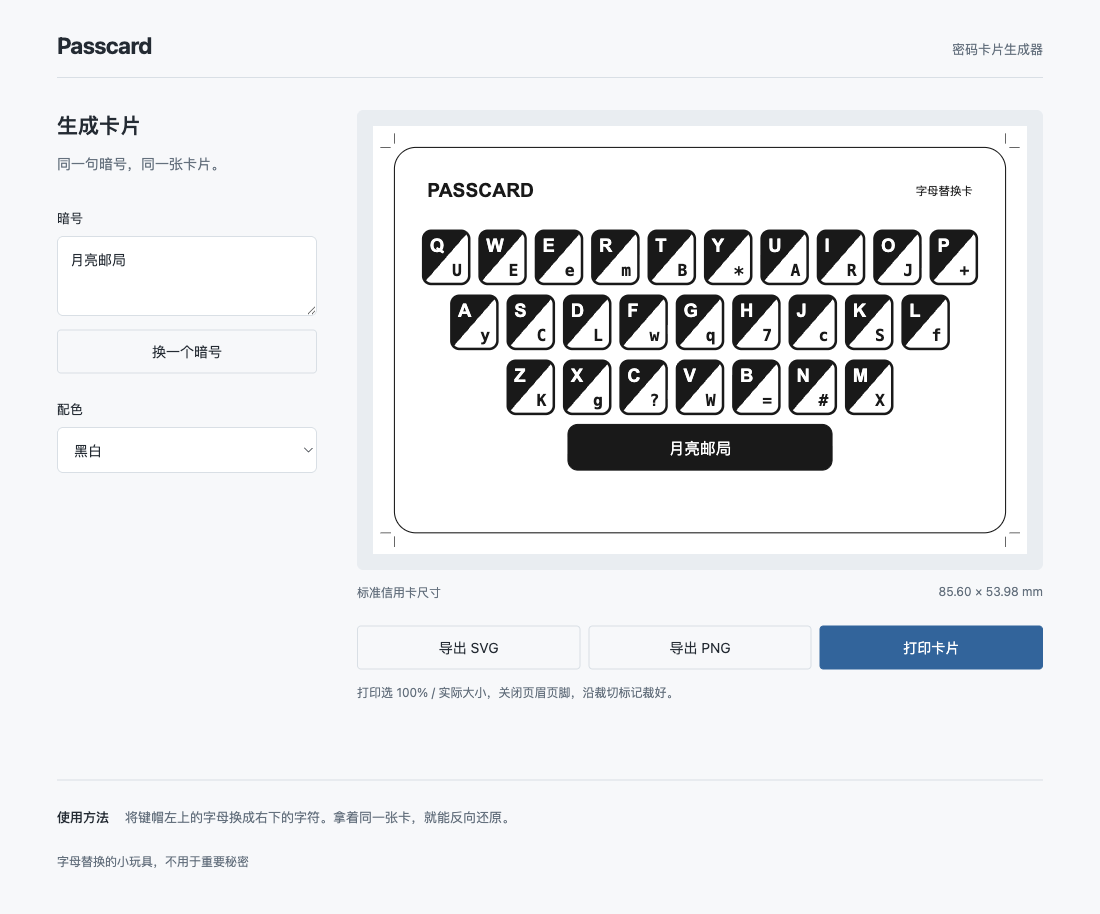
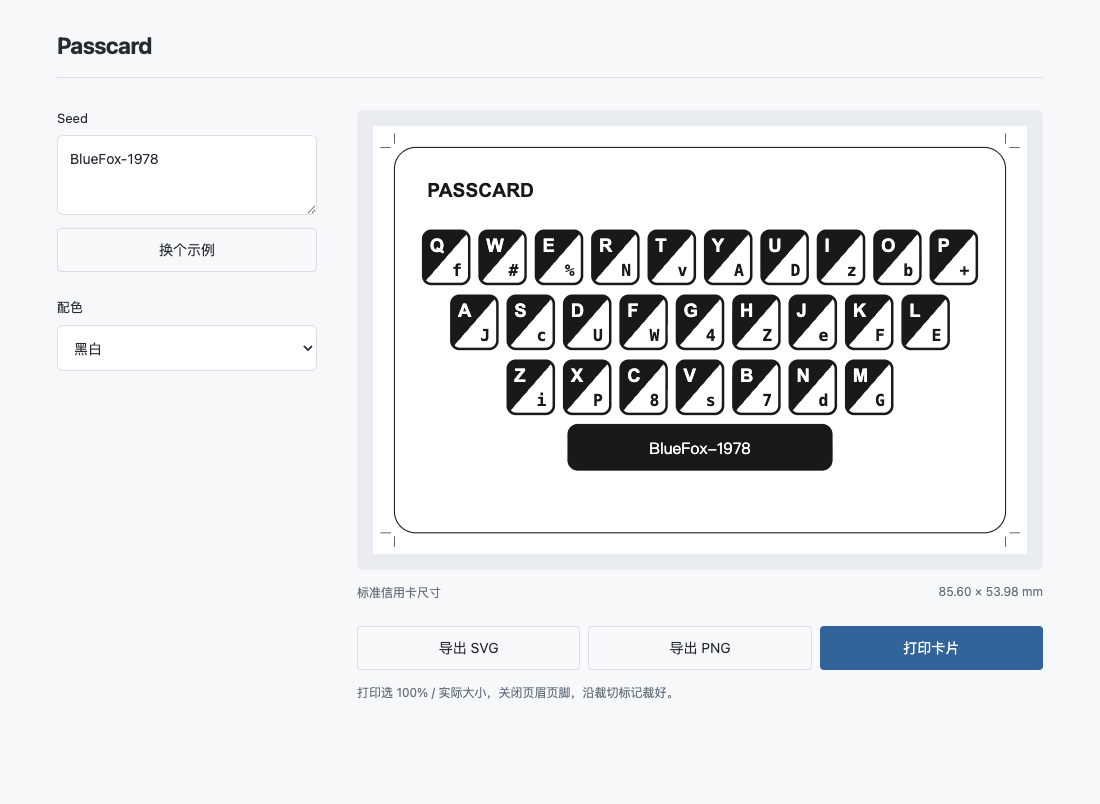
Simplify Passcard labels and restore seed examples

diff --git a/passcard.html b/passcard.html
@@ -4,18 +4,15 @@
 <meta charset="utf-8">
 <meta name="viewport" content="width=device-width, initial-scale=1">
 <meta http-equiv="Content-Security-Policy" content="default-src 'none'; script-src 'unsafe-inline'; style-src 'unsafe-inline'; img-src blob: data:; connect-src 'none'; base-uri 'none'; form-action 'none'">
-<title>Passcard · 密码卡片</title>
+<title>Passcard</title>
 <style>
 :root { color-scheme: light; --paper:#f7f8fa; --ink:#242b33; --muted:#64707d; --line:#d9dfe5; --accent:#32649b; }
 * { box-sizing:border-box; }
 body { margin:0; background:var(--paper); color:var(--ink); font-family:-apple-system,BlinkMacSystemFont,"Segoe UI","PingFang SC","Microsoft YaHei",sans-serif; }
 main { max-width:1050px; margin:auto; padding:32px 32px 24px; }
 header { display:flex; align-items:baseline; justify-content:space-between; border-bottom:1px solid var(--line); padding-bottom:18px; }
-.brand { font-size:23px; font-weight:700; letter-spacing:-.5px; }
-.edition { font-size:13px; color:var(--muted); }
+.brand { margin:0; font-size:23px; font-weight:700; letter-spacing:-.5px; }
 .workspace { display:grid; grid-template-columns:260px minmax(0,1fr); gap:40px; align-items:start; padding:32px 0 24px; }
-h1 { font-size:21px; font-weight:600; margin:0 0 12px; }
-.lead { font-size:14px; color:var(--muted); margin:0 0 32px; line-height:1.8; }
 label { display:block; font-size:13px; margin-bottom:9px; }
 textarea,select,button { font:inherit; font-size:14px; color:inherit; }
 textarea,select { width:100%; border:1px solid var(--line); border-radius:6px; background:#fff; padding:12px; }
@@ -29,7 +26,7 @@ button:disabled { opacity:.4; cursor:not-allowed; }
 .preview { min-width:0; }
 .card-stage { padding:16px; background:#e9edf1; border-radius:6px; }
 #walletCard { aspect-ratio:916 / 599.8; display:grid; place-items:center; }
-#walletCard:empty::after { content:"输入暗号后生成卡片"; color:var(--muted); font-size:14px; }
+#walletCard:empty::after { content:"请输入 Seed"; color:var(--muted); font-size:14px; }
 #walletCard svg { display:block; width:100%; height:auto; }
 .caption { display:flex; justify-content:space-between; gap:12px; margin:14px 0 25px; font-size:12px; color:var(--muted); }
 .actions { display:flex; gap:8px; }
@@ -39,13 +36,10 @@ button:disabled { opacity:.4; cursor:not-allowed; }
 .note { color:var(--muted); font-size:12px; line-height:1.8; margin:12px 0 0; }
 #status { min-height:36px; font-size:13px; line-height:1.6; margin:16px 0 0; overflow-wrap:anywhere; }
 #status[data-error="true"] { color:#a13f2d; }
-.how { border-top:1px solid var(--line); padding:24px 0; font-size:13px; line-height:1.9; color:var(--muted); }
-.how strong { color:var(--ink); font-weight:500; margin-right:16px; }
-footer { font-size:12px; color:var(--muted); padding-bottom:20px; }
 #printBlocked { display:none; }
 @media (max-width:720px) {
  main { padding:24px 20px 12px; } .workspace { grid-template-columns:1fr; gap:24px; padding:32px 0 24px; }
- .lead { margin-bottom:22px; } .card-stage { padding:7px; } .edition { letter-spacing:0; }
+ .card-stage { padding:7px; }
  textarea,select { font-size:16px; } #shuffleBtn { margin-bottom:20px; } .caption { font-size:11px; }
  .actions button { padding:10px 8px; font-size:13px; white-space:nowrap; }
 }
@@ -53,7 +47,7 @@ footer { font-size:12px; color:var(--muted); padding-bottom:20px; }
 @media print {
  html,body { margin:0; padding:0; background:white; min-height:0; }
  main,.workspace,.preview,.card-stage,#walletCard { display:block; width:91.60mm; height:59.98mm; margin:0; padding:0; border:0; border-radius:0; background:none; }
- header,.controls,.caption,.actions,.note,#status,.how,footer { display:none; }
+ header,.controls,.caption,.actions,.note,#status { display:none; }
  #walletCard svg { width:91.60mm!important; height:59.98mm!important; max-width:none; filter:none; }
  .card-stage { break-inside:avoid; }
  * { print-color-adjust:exact; -webkit-print-color-adjust:exact; }
@@ -64,14 +58,12 @@ footer { font-size:12px; color:var(--muted); padding-bottom:20px; }
 </head>
 <body>
 <main>
- <header><span class="brand">Passcard</span><span class="edition">密码卡片生成器</span></header>
+ <header><h1 class="brand">Passcard</h1></header>
  <section class="workspace">
   <div class="controls">
-   <h1>生成卡片</h1>
-   <p class="lead">同一句暗号，同一张卡片。</p>
-   <label for="seedInput">暗号</label>
-   <textarea id="seedInput" rows="2" autocomplete="off" spellcheck="false" aria-describedby="status">月亮邮局</textarea>
-   <button id="shuffleBtn" type="button">换一个暗号</button>
+    <label for="seedInput">Seed</label>
+    <textarea id="seedInput" rows="2" autocomplete="off" autocapitalize="off" spellcheck="false" aria-describedby="status">BlueFox-1978</textarea>
+    <button id="shuffleBtn" type="button">换个示例</button>
    <label for="styleSelect">配色</label>
    <select id="styleSelect"><option value="warm">暖白</option><option value="ink">蓝灰</option><option value="night">深色</option><option value="bw" selected>黑白</option></select>
   </div>
@@ -83,10 +75,8 @@ footer { font-size:12px; color:var(--muted); padding-bottom:20px; }
    <p id="status" role="status" aria-live="polite"></p>
   </div>
  </section>
-  <div class="how"><strong>使用方法</strong>将键帽左上的字母换成右下的字符。拿着同一张卡，就能反向还原。</div>
- <footer>字母替换的小玩具，不用于重要秘密</footer>
 </main>
-<p id="printBlocked">请输入有效暗号，再打印卡片。</p>
+<p id="printBlocked">请输入有效 Seed，再打印卡片。</p>
  <noscript>请在浏览器中启用 JavaScript，才能生成卡片。</noscript>
 <script>
 "use strict";
@@ -100,10 +90,10 @@ const THEMES = {
  bw:["#ffffff","#191919","#ffffff","#191919","#ffffff"]
 };
 function validateSeed(value) {
- if (typeof value !== "string" || !value.trim()) throw new Error("写一句暗号吧，空白还不能生成卡片。");
- if (/[\p{Cc}\p{Cf}\p{Cs}\p{Co}\p{Cn}\p{M}\p{Default_Ignorable_Code_Point}\u2028\u2029\u2800]/u.test(value)) throw new Error("暗号里有隐藏字符或组合字符，请换成普通文字、数字或标点。");
+ if (typeof value !== "string" || !value.trim()) throw new Error("请输入 Seed。");
+ if (/[\p{Cc}\p{Cf}\p{Cs}\p{Co}\p{Cn}\p{M}\p{Default_Ignorable_Code_Point}\u2028\u2029\u2800]/u.test(value)) throw new Error("Seed 含不支持的字符。");
  const seed = value.trim();
- if ([...seed].length > 32) throw new Error("暗号最多 32 个字符，才能完整放进空格键；请缩短后再试，输入没有被截断。");
+ if ([...seed].length > 32) throw new Error("Seed 最多 32 个字符。");
  return seed;
 }
 function cyrb128(str) {
@@ -154,11 +144,10 @@ function cardSvg(value,style) {
   crop+=`<path d="M${x},${y+dy*5}v${dy*15} M${x+dx*5},${y}h${dx*15}"/>`;
  }
  return `<svg xmlns="http://www.w3.org/2000/svg" width="91.60mm" height="59.98mm" viewBox="0 0 916 599.8" role="img" aria-labelledby="card-title">
-  <title id="card-title">字母替换卡 · ${esc(seed)}</title>
+  <title id="card-title">Passcard · ${esc(seed)}</title>
   <rect width="916" height="599.8" fill="${paper}"/>
   <rect x="30" y="30" width="856" height="539.8" rx="30" fill="none" stroke="${ink}" stroke-width="1.5"/>
-   <g fill="${ink}"><text x="76" y="99" font-family="Arial, sans-serif" font-size="27" font-weight="700">PASSCARD</text>
-   <text x="840" y="97" text-anchor="end" font-family="PingFang SC, Microsoft YaHei, sans-serif" font-size="16">字母替换卡</text></g>
+   <text x="76" y="99" fill="${ink}" font-family="Arial, sans-serif" font-size="27" font-weight="700">PASSCARD</text>
   ${keys}
   <rect x="273" y="418" width="370" height="64" rx="14" fill="${space}" stroke="${ink}" stroke-width="1.5"/>
   <g fill="${spaceInk}" font-family="PingFang SC, Microsoft YaHei, sans-serif">${caption}</g>
@@ -233,7 +222,7 @@ async function exportCard(format) {
  const snapshot=rendered;exporting=true;updateButtons();message(`正在准备 ${format.toUpperCase()}…`);
  try {
   const blob=format==="png"?await pngBlob(snapshot.svg):new Blob([snapshot.svg],{type:"image/svg+xml;charset=utf-8"});
-  if(snapshot!==rendered||!ready()) throw new Error("暗号或配色已变化，请重新导出当前卡片。");
+  if(snapshot!==rendered||!ready()) throw new Error("Seed 或配色已变化，请重新导出。");
   const url=URL.createObjectURL(blob),link=document.createElement("a");
   try { link.href=url;link.download=`passcard.${format}`;document.body.appendChild(link);link.click(); }
   finally { link.remove();setTimeout(()=>URL.revokeObjectURL(url),10000); }
@@ -243,9 +232,9 @@ async function exportCard(format) {
 }
 seedInput.addEventListener("input",render);styleSelect.addEventListener("change",render);
 get("shuffleBtn").addEventListener("click",()=>{
- const left=["月亮","雨夜","松林","海风","黄昏","星星","白鲸","春日"],right=["邮局","来信","电台","车站","唱片","灯塔","花园","茶馆"];
- const options=left.flatMap(a=>right.map(b=>a+b)).filter(s=>s!==seedInput.value.trim());
- seedInput.value=options[Math.floor(Math.random()*options.length)];render();
+ const left=["blue","quiet","atlas","silver","night","amber","signal","cedar"],right=["fox","dock","lamp","card","harbor","window","pixel","brush"];
+ const pick=items=>items[Math.floor(Math.random()*items.length)];
+ seedInput.value=`${pick(left)}-${pick(right)}-${100+Math.floor(Math.random()*9900)}`;render();
 });
 get("exportSvgBtn").addEventListener("click",()=>exportCard("svg"));
 get("exportPngBtn").addEventListener("click",()=>exportCard("png"));

diff --git a/README.md b/README.md
@@ -1,6 +1,6 @@
 # Passcard
 
-一个单文件的字母替换卡片生成器。
+一个单文件的密码替换卡片生成器。
 
 [在线打开](https://vaneecho.github.io/passcard/passcard.html)
 
@@ -8,8 +8,4 @@
 
 下载 [passcard.html](https://github.com/VaneEcho/passcard/raw/refs/heads/main/passcard.html)，用浏览器打开。不用安装，也不用联网。
 
-写一句暗号，挑个配色，生成卡片。照着键帽替换字母，拿着同一张卡就能反向还原。
-
 可以导出 SVG、PNG，或直接打印。打印选 **100% / 实际大小**，沿标记裁切，就是标准信用卡大小（85.60 × 53.98 mm）。
-
-字母替换的小玩具，不用于重要秘密。
